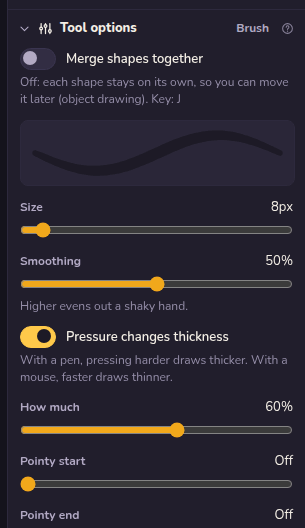
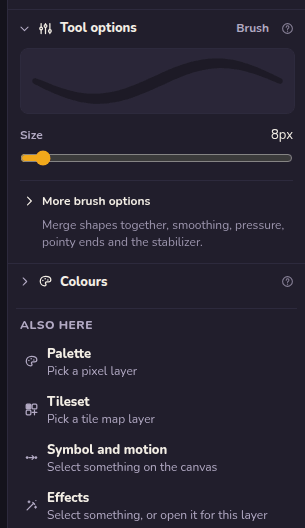
Draw panel: the brush opens on Size and the colour is in view, with smoothing, pressure, pointy ends, stabilizer and Merge shapes together folded under More brush options (remembered open or shut, and a palette command)

diff --git a/test/canvas/folds.test.tsx b/test/canvas/folds.test.tsx
@@ -1,0 +1,94 @@
+// @vitest-environment jsdom
+import { act } from 'react';
+import { createRoot } from 'react-dom/client';
+import { afterEach, beforeEach, describe, expect, it, vi } from 'vitest';
+import { getFold, isFoldOpen, parseFolds, setFold, toggleFold, withFold } from '../../src/canvas/folds';
+import { BrushOptions } from '../../src/tools/options/BrushOptions';
+import { getCommand } from '../../src/core/registry';
+import '../../src/canvas/commands';
+
+vi.mock('../../src/canvas/canvas.css', () => ({}));
+vi.mock('../../src/tablet/tablet.css', () => ({}));
+(globalThis as { IS_REACT_ACT_ENVIRONMENT?: boolean }).IS_REACT_ACT_ENVIRONMENT = true;
+
+describe('the folds, as pure functions', () => {
+  it('starts everything shut', () => {
+    expect(isFoldOpen({}, 'brush')).toBe(false);
+    expect(parseFolds(null)).toEqual({});
+    expect(parseFolds('')).toEqual({});
+  });
+  it('reads saved text back, and ignores junk', () => {
+    expect(parseFolds('{"brush":true}')).toEqual({ brush: true });
+    expect(parseFolds('{"brush":"yes","pencil":1,"x":false}')).toEqual({ x: false });
+    expect(parseFolds('[true]')).toEqual({});
+    expect(parseFolds('null')).toEqual({});
+    expect(parseFolds('{not json')).toEqual({});
+  });
+  it('opens and shuts one fold without touching the others, and saves only what is open', () => {
+    const a = withFold({}, 'brush', true);
+    const b = withFold(a, 'pencil', true);
+    expect(b).toEqual({ brush: true, pencil: true });
+    expect(withFold(b, 'brush', false)).toEqual({ pencil: true });
+    expect(a).toEqual({ brush: true });
+  });
+});
+
+describe('the brush fold in the panel', () => {
+  let host: HTMLDivElement;
+  beforeEach(() => {
+    // jsdom has no canvas, and the brush preview draws on one
+    vi.stubGlobal('Path2D', class { moveTo() {} lineTo() {} quadraticCurveTo() {} closePath() {} arc() {} bezierCurveTo() {} });
+    const g = new Proxy({}, { get: () => () => undefined });
+    vi.spyOn(HTMLCanvasElement.prototype, 'getContext').mockReturnValue(g as never);
+    setFold('brush', false);
+    localStorage.clear();
+    host = document.createElement('div');
+    document.body.appendChild(host);
+  });
+  afterEach(() => {
+    host.remove();
+    vi.restoreAllMocks();
+    vi.unstubAllGlobals();
+  });
+  const labels = () => [...host.querySelectorAll('.cv-field-label, .cv-toggle-label')].map((e) => e.textContent);
+  const render = () => {
+    const root = createRoot(host);
+    act(() => root.render(<BrushOptions />));
+    return root;
+  };
+
+  it('opens on Size alone, with the rest folded away', () => {
+    render();
+    expect(labels()).toEqual(['Size']);
+    expect(host.textContent).toContain('More brush options');
+    expect(host.querySelector('[aria-expanded]')?.getAttribute('aria-expanded')).toBe('false');
+  });
+
+  it('shows all nine controls once opened, and remembers it', () => {
+    render();
+    act(() => (host.querySelector('.cv-more-btn') as HTMLButtonElement).click());
+    expect(labels()).toEqual(['Size', 'Merge shapes together', 'Smoothing', 'Pressure changes thickness', 'How much', 'Pointy start', 'Pointy end', 'Stabilizer', 'Stabilizer style']);
+    expect(getFold('brush')).toBe(true);
+    expect(JSON.parse(localStorage.getItem('frameling.optionFolds') ?? '{}')).toEqual({ brush: true });
+    act(() => (host.querySelector('.cv-more-btn') as HTMLButtonElement).click());
+    expect(labels()).toEqual(['Size']);
+    expect(localStorage.getItem('frameling.optionFolds')).toBe('{}');
+  });
+
+  it('comes back open when it was left open', () => {
+    setFold('brush', true);
+    render();
+    expect(labels()).toContain('Pointy end');
+  });
+
+  it('has a palette command that flips it and shows it ticked', () => {
+    const cmd = getCommand('draw.moreBrushOptions');
+    expect(cmd).toBeTruthy();
+    expect(cmd?.checked?.({} as never)).toBe(false);
+    cmd?.run();
+    expect(getFold('brush')).toBe(true);
+    expect(cmd?.checked?.({} as never)).toBe(true);
+    toggleFold('brush');
+    expect(getFold('brush')).toBe(false);
+  });
+});

diff --git a/src/tools/options/BrushOptions.tsx b/src/tools/options/BrushOptions.tsx
@@ -4,7 +4,7 @@ import { findLayer } from '../../core/doc';
 import type { BrushSettings } from '../../core/format';
 import { drawShape } from '../../core/render';
 import { store, useStore } from '../../core/store';
-import { Choice, Slider, Tip, Toggle } from '../../canvas/controls';
+import { Choice, MoreOptions, Slider, Tip, Toggle } from '../../canvas/controls';
 import { buildStroke } from '../vectorStroke';
 import { DrawModeToggle } from './DrawModeToggle';
 import { setToolSettings, useToolSettings } from '../settings';
@@ -56,15 +56,17 @@ function VectorBrushOptions() {
   const pressure = brush.thinning !== 0;
   return (
     <div className="cv-options">
-      <DrawModeToggle />
       <BrushPreview brush={brush} color={color} />
       <Slider label="Size" value={brush.size} min={1} max={120} format={(v) => `${v}px`} onChange={(v) => setBrush({ size: v })} />
-      <Slider label="Smoothing" value={Math.round(brush.streamline * 100)} min={0} max={100} format={(v) => `${v}%`} onChange={(v) => setBrush({ streamline: v / 100, smoothing: v / 100 })} hint="Higher evens out a shaky hand." />
-      <Toggle label="Pressure changes thickness" checked={pressure} onChange={(on) => setBrush({ thinning: on ? 0.6 : 0 })} hint={pressure ? 'With a pen, pressing harder draws thicker. With a mouse, faster draws thinner.' : undefined} />
-      {pressure && <Slider label="How much" value={Math.round(brush.thinning * 100)} min={5} max={100} format={(v) => `${v}%`} onChange={(v) => setBrush({ thinning: v / 100 })} />}
-      <Slider label="Pointy start" value={brush.taperStart} min={0} max={120} format={(v) => (v ? `${v}px` : 'Off')} onChange={(v) => setBrush({ taperStart: v })} />
-      <Slider label="Pointy end" value={brush.taperEnd} min={0} max={120} format={(v) => (v ? `${v}px` : 'Off')} onChange={(v) => setBrush({ taperEnd: v })} />
-      <PenOptions tool="brush" opacity />
+      <MoreOptions name="brush" label="More brush options" hint="Merge shapes together, smoothing, pressure, pointy ends and the stabilizer.">
+        <DrawModeToggle />
+        <Slider label="Smoothing" value={Math.round(brush.streamline * 100)} min={0} max={100} format={(v) => `${v}%`} onChange={(v) => setBrush({ streamline: v / 100, smoothing: v / 100 })} hint="Higher evens out a shaky hand." />
+        <Toggle label="Pressure changes thickness" checked={pressure} onChange={(on) => setBrush({ thinning: on ? 0.6 : 0 })} hint={pressure ? 'With a pen, pressing harder draws thicker. With a mouse, faster draws thinner.' : undefined} />
+        {pressure && <Slider label="How much" value={Math.round(brush.thinning * 100)} min={5} max={100} format={(v) => `${v}%`} onChange={(v) => setBrush({ thinning: v / 100 })} />}
+        <Slider label="Pointy start" value={brush.taperStart} min={0} max={120} format={(v) => (v ? `${v}px` : 'Off')} onChange={(v) => setBrush({ taperStart: v })} />
+        <Slider label="Pointy end" value={brush.taperEnd} min={0} max={120} format={(v) => (v ? `${v}px` : 'Off')} onChange={(v) => setBrush({ taperEnd: v })} />
+        <PenOptions tool="brush" opacity />
+      </MoreOptions>
     </div>
   );
 }

diff --git a/src/canvas/folds.ts b/src/canvas/folds.ts
@@ -1,0 +1,63 @@
+// Which "More ... options" folds in the tool options are open, remembered between sessions. Folds start shut, so
+// the panel opens on the few things most people reach for.
+import { useSyncExternalStore } from 'react';
+
+export type Folds = Record<string, boolean>;
+
+const KEY = 'frameling.optionFolds';
+
+/** Reads the saved text back into folds, ignoring anything that isn't a plain on/off per name. Pure, so it's tested. */
+export function parseFolds(raw: string | null | undefined): Folds {
+  if (!raw) return {};
+  try {
+    const v: unknown = JSON.parse(raw);
+    if (!v || typeof v !== 'object' || Array.isArray(v)) return {};
+    const out: Folds = {};
+    for (const [k, on] of Object.entries(v)) if (typeof on === 'boolean') out[k] = on;
+    return out;
+  } catch {
+    return {};
+  }
+}
+
+export const isFoldOpen = (folds: Folds, name: string): boolean => folds[name] === true;
+
+/** The folds with one set. Shut folds are dropped, so what's saved is only what's open. */
+export function withFold(folds: Folds, name: string, open: boolean): Folds {
+  const next = { ...folds };
+  if (open) next[name] = true;
+  else delete next[name];
+  return next;
+}
+
+let state: Folds = {};
+try {
+  if (typeof localStorage !== 'undefined') state = parseFolds(localStorage.getItem(KEY));
+} catch {
+  // unreadable: everything starts shut
+}
+const listeners = new Set<() => void>();
+
+export function setFold(name: string, open: boolean): void {
+  if (isFoldOpen(state, name) === open) return;
+  state = withFold(state, name, open);
+  try {
+    if (typeof localStorage !== 'undefined') localStorage.setItem(KEY, JSON.stringify(state));
+  } catch {
+    // not saved this time
+  }
+  for (const fn of listeners) fn();
+}
+
+export const getFold = (name: string): boolean => isFoldOpen(state, name);
+export const toggleFold = (name: string): void => setFold(name, !getFold(name));
+
+export function useFold(name: string): boolean {
+  return useSyncExternalStore(
+    (fn) => {
+      listeners.add(fn);
+      return () => void listeners.delete(fn);
+    },
+    () => isFoldOpen(state, name),
+  );
+}

diff --git a/src/canvas/controls.tsx b/src/canvas/controls.tsx
@@ -1,6 +1,8 @@
 // Small form controls shared by the tool options and the colour panel. Plain words, big targets, theme tokens only.
 import { platformKeysText } from '../ui/keys';
 import { useRef, useState, type KeyboardEvent, type PointerEvent, type ReactNode } from 'react';
+import { Icon } from '../ui/icons';
+import { setFold, useFold } from './folds';
 import './canvas.css';
 
 export function Field({ label, value, children, hint }: { label: string; value?: ReactNode; children: ReactNode; hint?: string }) {
@@ -158,5 +160,28 @@ export function ActionButton({ children, onClick, disabled, title }: { children:
     <button type="button" className="cv-action" onClick={onClick} disabled={disabled} title={title}>
       {children}
     </button>
+  );
+}
+
+/**
+ * A fold for the settings most people leave alone: a button that opens and shuts them, remembered per `name`.
+ * `hint` says what's inside while it's shut, so nothing is a mystery.
+ */
+export function MoreOptions({ name, label, hint, children }: { name: string; label: string; hint?: string; children: ReactNode }) {
+  const open = useFold(name);
+  const id = `cv-more-${name}`;
+  return (
+    <div className="cv-more" data-open={open}>
+      <button type="button" className="cv-more-btn" aria-expanded={open} aria-controls={id} onClick={() => setFold(name, !open)}>
+        <Icon name={open ? 'chevron-down' : 'chevron-right'} size={14} />
+        <span>{label}</span>
+      </button>
+      {!open && hint && <div className="cv-field-hint cv-more-hint">{hint}</div>}
+      {open && (
+        <div className="cv-more-body" id={id}>
+          {children}
+        </div>
+      )}
+    </div>
   );
 }

diff --git a/src/canvas/help.bodies.ts b/src/canvas/help.bodies.ts
@@ -91,11 +91,15 @@ Turn it off or on from **View > Pixel grid**. The grid is only a guide. It never
 - **Recently used** shows the last 8 colours you drew with, so it's easy to go back.
 
 Tip: the Eyedropper (I) picks up any colour you can see on the page.`,
-  'tool-options': `This panel changes to match whichever tool you've picked. Brush has size, smoothing and pointy ends. Shapes have fill and outline. The eraser has its reach.
+  'tool-options': `This panel changes to match whichever tool you've picked. Brush opens on its size, with the rest under **More brush options**. Shapes have fill and outline. The eraser has its reach.
 
 ## Sliders
 
 Click a slider's number to type an exact value (Enter keeps it, Escape cancels). Hold **Shift** while dragging for big steps, or **Alt** or **Ctrl** for fine control. The arrow keys work the same way.
+
+## More brush options
+
+The brush shows **Size** and the colour first, so you can start drawing. Press **More brush options** for smoothing, pressure, pointy ends, the stabilizer and **Merge shapes together**. It stays open or shut the way you left it. You can also flip it from the command palette.
 
 Your settings are remembered, so the brush is just as you left it next time.`,
   'grids-perspective': `**Grids**

diff --git a/src/canvas/commands.ts b/src/canvas/commands.ts
@@ -2,6 +2,7 @@
 import { registerCommands } from '../core/registry';
 import { store } from '../core/store';
 import { center, fit, zoom100, zoomStep } from './controller';
+import { getFold, setFold } from './folds';
 import { getViewSettings, setViewSettings } from './viewSettings';
 
 registerCommands([
@@ -92,5 +93,22 @@ registerCommands([
     keywords: ['canvas size', 'image size', 'resize', 'page size', 'stage size', 'document settings', 'fps', 'frame rate', 'dpi', 'background', 'scale', 'crop'],
     // The dialog loads on first use.
     run: () => void import('./DocumentSettings').then((m) => m.openDocumentSettings()),
+  },
+]);
+
+registerCommands([
+  {
+    id: 'draw.moreBrushOptions',
+    label: 'More brush options',
+    category: 'Draw',
+    description: 'Show or fold away the brush settings under Size: smoothing, pressure, pointy ends and the stabilizer.',
+    help: 'tool-options',
+    keywords: ['brush', 'smoothing', 'pressure', 'pointy', 'taper', 'stabilizer', 'merge', 'settings', 'fold', 'expand'],
+    checked: () => getFold('brush'),
+    run: () => {
+      setFold('brush', !getFold('brush'));
+      // the panel shows the brush's options, so bring them up if another tool was showing
+      store().setUi({});
+    },
   },
 ]);

diff --git a/src/canvas/canvas.css b/src/canvas/canvas.css
@@ -195,6 +195,45 @@
   line-height: 1.4;
   color: var(--faint);
 }
+.cv-more {
+  display: flex;
+  flex-direction: column;
+  gap: 4px;
+  border-top: 1px solid var(--line-soft);
+  padding-top: 8px;
+}
+.cv-more-btn {
+  display: flex;
+  align-items: center;
+  gap: 6px;
+  width: 100%;
+  padding: 4px 2px;
+  border: 0;
+  border-radius: var(--radius-small);
+  background: transparent;
+  color: var(--text);
+  font: inherit;
+  font-size: var(--fs-small);
+  font-weight: 700;
+  text-align: left;
+  cursor: pointer;
+}
+.cv-more-btn:hover {
+  background: var(--panel-2);
+}
+.cv-more-btn:focus-visible {
+  outline: 2px solid var(--sunny-deep);
+  outline-offset: 1px;
+}
+.cv-more-hint {
+  padding-left: 22px;
+}
+.cv-more-body {
+  display: flex;
+  flex-direction: column;
+  gap: 12px;
+  padding-top: 4px;
+}
 .cv-slider {
   width: 100%;
   margin: 2px 0;

diff --git a/src/tools/merge-mode.bodies.ts b/src/tools/merge-mode.bodies.ts
@@ -1,6 +1,6 @@
 // The words of the help topics in merge-mode.ts, kept apart so they load only when Help is opened (see src/core/helpBodies.ts).
 export const bodies: Record<string, string> = {
-  'merge-drawing': `Each vector layer has a **Merge shapes together** switch at the top of the tool options, and **J** flips it.
+  'merge-drawing': `Each vector layer has a **Merge shapes together** switch in the tool options (under **More brush options** for the brush), and **J** flips it.
 
 **Off** (object drawing) is how layers start. Every line and shape stays on its own. You can click it later, move it, and everything under it is still there.
 

diff --git a/brand/ab/draw-panel/note.md b/brand/ab/draw-panel/note.md
@@ -1,0 +1,15 @@
+# The Draw panel opens on Size and the colour
+
+Board task `ux-draw-panel-fewer-sliders` (rank 4 of the ease of use review). The Draw workspace's Properties panel used
+to open on nine brush controls, with the colour below the fold. Now the brush shows its sample line and **Size**, and
+the rest sits under **More brush options**, which stays open or shut the way you left it. The colour picker is on screen
+straight away.
+
+- `a-before-dark.png`, `a-before-light.png`: before. Merge shapes together, sample, Size, Smoothing, Pressure changes
+  thickness, How much, Pointy start, Pointy end, Stabilizer, Stabilizer style; Colours is just a header at the bottom.
+- `b-after-dark.png`, `b-after-light.png`: after, first run. Sample, Size, **More brush options** (with a line saying
+  what is inside), then the whole colour picker.
+- `c-after-opened-dark.png`, `c-after-opened-light.png`: after, with the fold open. The same nine controls and the same
+  words as before; Merge shapes together moved in here with the rest.
+
+Taken in the built app under xvfb (scripts/docs/record.cjs, 1400 x 900), right panel cropped to 312 x 788.
